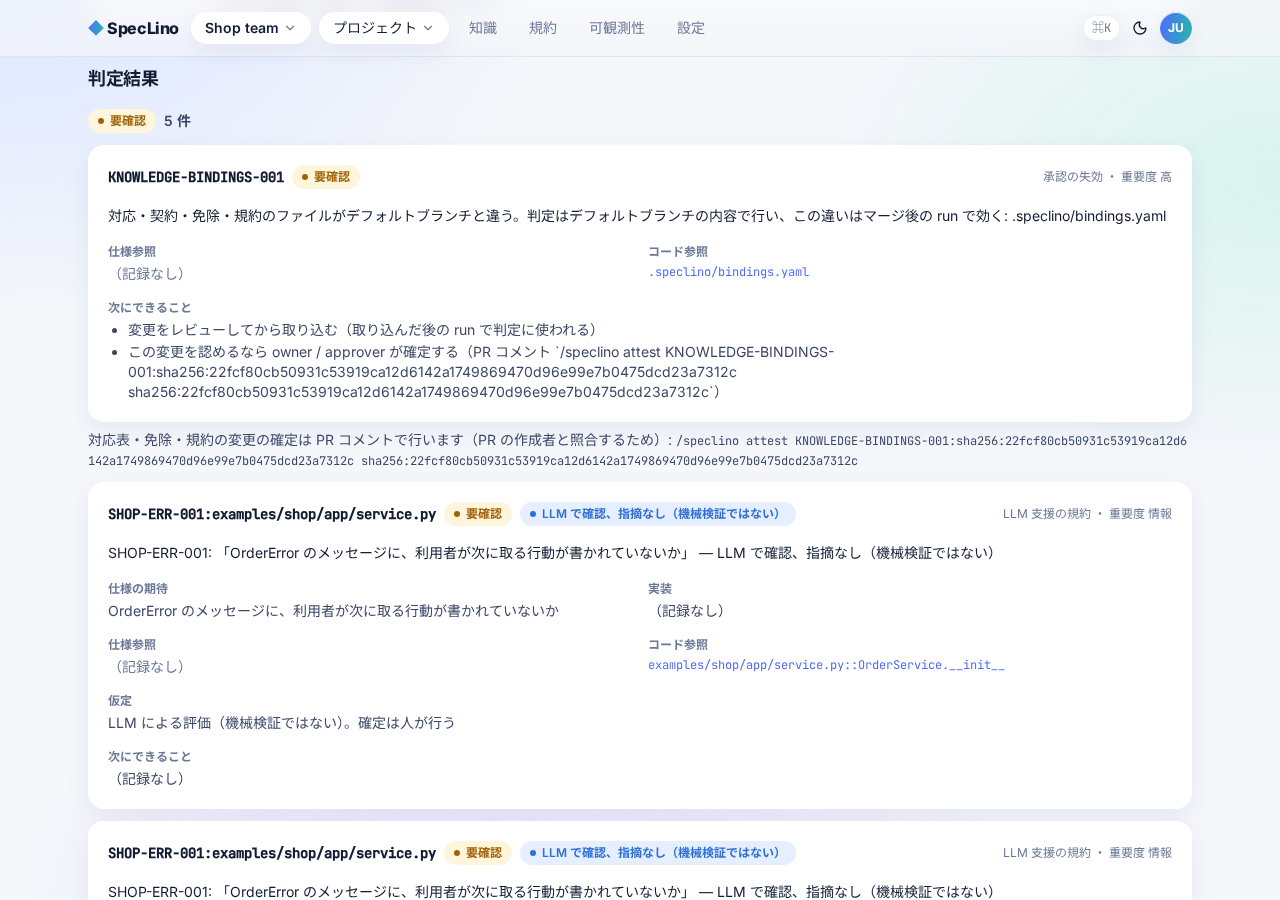
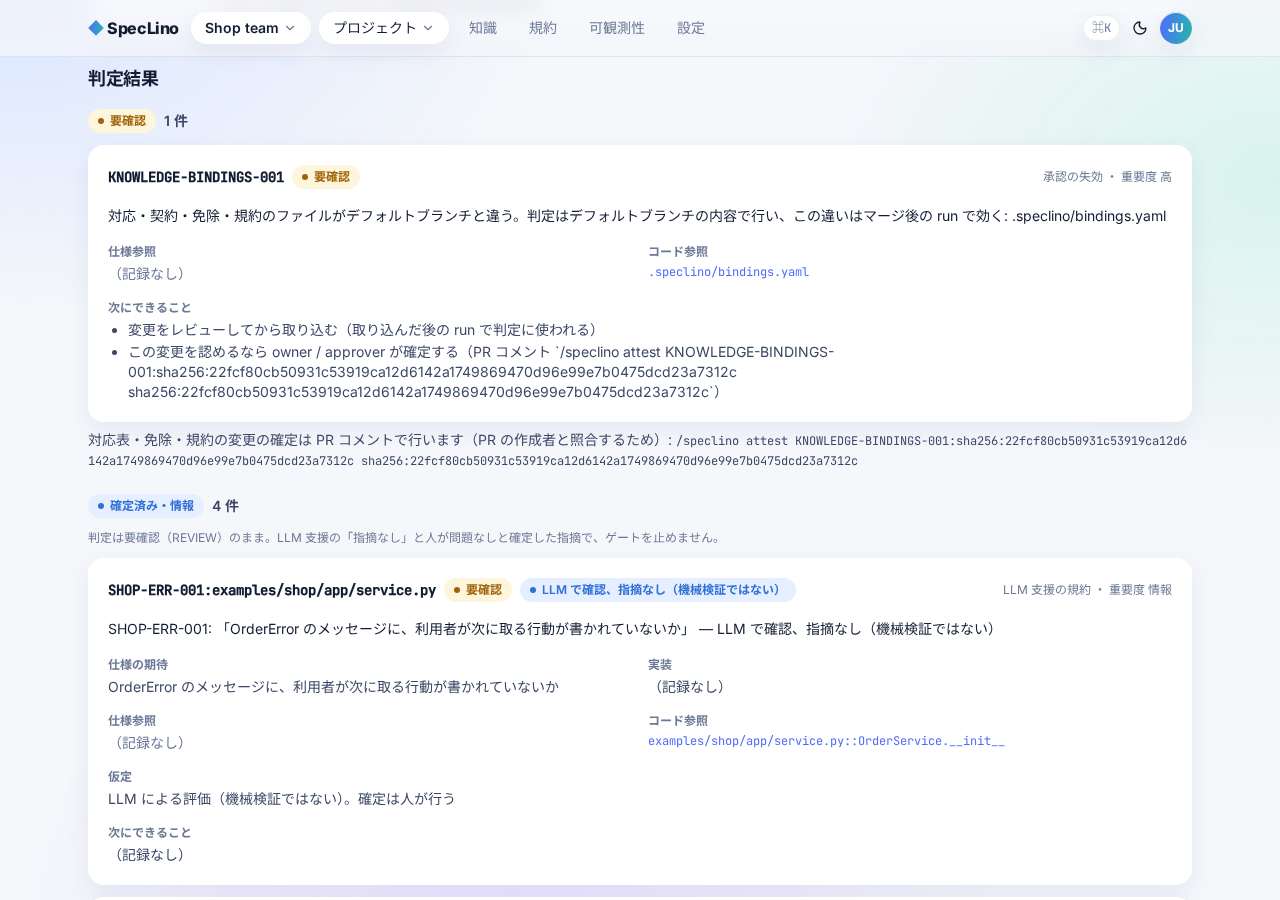
fix: E2E のスクリーンショットを指定したときだけ保存し、比較演算子のガードの描画も確かめる (#114)
Claude-Session: https://claude.ai/code/session_01H94pBw2ZQPE7uJKhXVyn32

diff --git a/web/e2e/knowledge.spec.ts b/web/e2e/knowledge.spec.ts
@@ -1,15 +1,18 @@
 /**
  * チームの知識レジストリの通し確認（S72）。scripts/seed_demo.py で用意した DB に対して動かす。
- * スクリーンショットは docs/screenshots/knowledge-*.png に保存する（docs/demo-knowledge-registry.md）。
+ * E2E_SHOTS_DIR=../docs/screenshots でスクリーンショットを knowledge-*.png として保存する
+ * （docs/demo-knowledge-registry.md）。
  */
 import { expect, test, type Page } from '@playwright/test'
 import path from 'node:path'
 
 const SLUG = process.env.E2E_WORKSPACE ?? 'shop-team'
-const SHOTS = path.resolve(import.meta.dirname, '../../docs/screenshots')
+// スクリーンショットは E2E_SHOTS_DIR を設定したときだけ保存する（docs の画像を撮り直すとき）
+const SHOTS = process.env.E2E_SHOTS_DIR ? path.resolve(process.env.E2E_SHOTS_DIR) : null
 const DEV_HEADERS = { 'X-Dev-User': 'judge' }
 
 async function shot(page: Page, name: string) {
+  if (!SHOTS) return
   await page.screenshot({ path: path.join(SHOTS, `knowledge-${name}.png`), fullPage: false })
 }
 
@@ -45,6 +48,20 @@ test('仕様の編集・診断・承認、skill、可観測性、検査結果の
   await expect(page.getByRole('tab', { name: /診断（[1-9]/ })).toBeVisible()
   await diagnostic.click() // 本文のその行へ移る
   await shot(page, 'spec-diagnostic')
+
+  // 2b. `<` と `>=` を含むガードの辺ラベルも描ける（Mermaid のラベルの中の比較演算子。保存はしない）
+  const withComparison = original.replace(
+    '    notify -->|"[e4]"| done',
+    '    notify -->|"[e4]"| done\n    check -->|"[e5] before.order.quantity < 1 and before.inventory.available >= 0"| done',
+  )
+  expect(withComparison).not.toBe(original)
+  await body.fill(withComparison)
+  await expect(page.getByText('診断はありません。')).toBeVisible()
+  await page.getByRole('tab', { name: '図' }).click()
+  await expect(page.locator('figure svg')).toHaveCount(4)
+  await expect(page.getByText('描画できない')).toHaveCount(0)
+  await expect(page.locator('figure svg').last()).toContainText('before.order.quantity < 1 and before.inventory.available >= 0')
+  await page.getByRole('tab', { name: /診断/ }).click()
 
   // 3. 直す（説明の 1 文も足して保存できる差分にする）→ 診断が消え、図が描ける
   const fixed = original.replace('挟んでもよい（シーケンス図は「この順で含む」の義務）。', '挟んでもよい（シーケンス図は「この順で含む」の義務）。在庫が足りなければ何も呼ばない。')
@@ -131,6 +148,9 @@ test('仕様の編集・診断・承認、skill、可観測性、検査結果の
     .toBe(0)
   const attested = page.getByText(/問題なしとして確定済み/).first()
   await expect(attested).toBeVisible()
+  // 件数と理由は同じ集合から: 確定した指摘と LLM の「指摘なし」は「確定済み・情報」、残る要確認は lock だけ
+  await expect(page.getByText('要確認 1件 が残っているため失敗しました')).toBeVisible()
+  await expect(page.getByText('確定済み・情報').first()).toBeVisible()
   await shot(page, 'run-recheck')
   await attested.evaluate((el) => el.scrollIntoView({ block: 'center' }))
   await shot(page, 'run-recheck-attested')

diff --git a/docs/demo-knowledge-registry.md b/docs/demo-knowledge-registry.md
@@ -97,6 +97,8 @@ PR #7: LLM 支援の規約は 3 回の評価の多数で「指摘あり」。ver
 ![LLM 支援の REVIEW と確定のボタン](screenshots/knowledge-run-llm-review.png)
 
 「問題なしとして確定」を押すと、同じ PR の再検査（trigger = attestation）に移る。確定した指摘はゲートを止めない。
+判定は REVIEW のままだが、ゲートを止めない REVIEW（確定した指摘と LLM の「指摘なし」）は「確定済み・情報」として
+要確認とは別に数える（件数・失敗の理由・一覧は、ゲートが決めた同じ集合 `cleared_ids` から作る）。
 残る REVIEW は `KNOWLEDGE-LOCK-001`（1 で承認して世代 5 になったのに、ブランチの lock は世代 4 のまま）。
 `speclino sync` で最新にすれば消える。
 
@@ -119,7 +121,7 @@ PR #7: LLM 支援の規約は 3 回の評価の多数で「指摘あり」。ver
 上の画面は Playwright で撮っている（`web/e2e/knowledge.spec.ts`）。seed 直後の DB とサーバーに対して:
 
 ```sh
-cd web && E2E_BASE_URL=http://localhost:8080 npx playwright test
+cd web && E2E_BASE_URL=http://localhost:8080 E2E_SHOTS_DIR=../docs/screenshots npx playwright test
 ```
 
 仕様を承認して世代を進めるので、撮り直すときは DB を作り直して seed からやり直す
